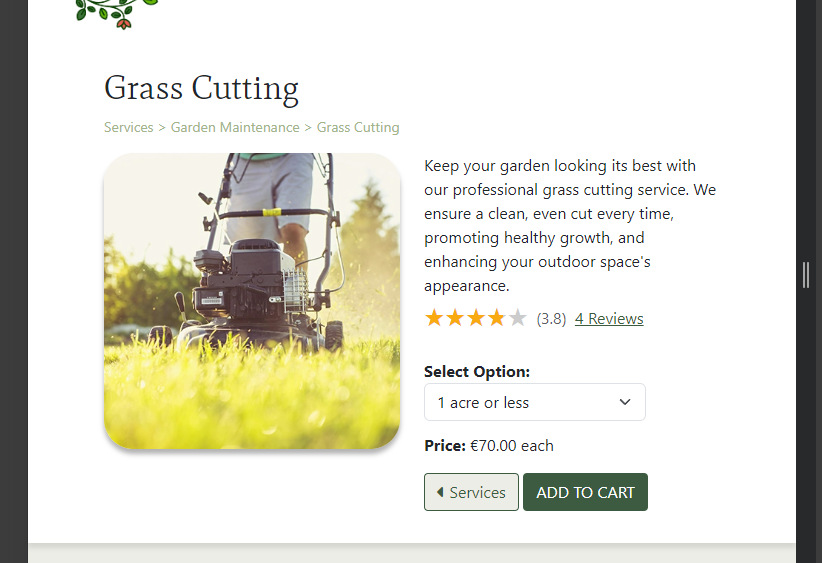
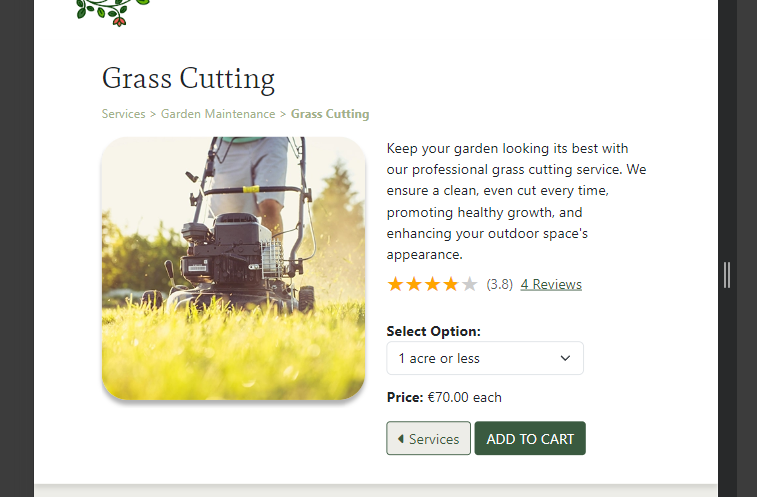
Docs: Add service pages to Features section of README.

diff --git a/README.md b/README.md
@@ -720,7 +720,7 @@ The homepage contains two sections: a general introduction and a services overvi
 
 ### The About Page
 Three distinct sections are displayed on the About page.
-- The first is a short statement about the business following by a paragraph on the founding of the business by the fictional Dermot Murphy. This history instills a sense of trust and customer care in the user as they think of The Garden Path as one that started as a local business run by someone passionate about their work that has become successful and increased in size. A picture of the same mature man amongst vegetation reading from tablet makes the user think of the business as one with good attention to detail.
+- The first is a short statement about the business following by a paragraph on the founding of the business by the fictional Dermot Murphy. This history instills a sense of trust and customer care in the user as they think of The Garden Path as one that started as a local business run by someone passionate about their work that has become successful and increased in size. A picture of "Dermot" amongst vegetation reading from a tablet makes the user think of the business as one with good attention to detail.
 
     ![Our Story section of About Us page](static/images/readme/about-story.png)
 
@@ -728,14 +728,32 @@ Three distinct sections are displayed on the About page.
 
     ![Our Mission section of About Us page](static/images/readme/about-mission.png)
 
-- The third section is brief paragraph that speaks directly to the prospective customer. It communicates that the business is dedicated to quality service and delivering exactly what the customer wants. A image of the mature man smiling and looking directly at the camera make a connection with the user as if they were speaking in person to a staff member.
+- The third section is brief paragraph that speaks directly to the prospective customer. It communicates that the business is dedicated to quality service and delivering exactly what the customer wants. A image of "Dermot" smiling and looking directly at the camera make a connection with the user as if they were speaking in person to a staff member.
 
     ![Our Mission section of About Us page](static/images/readme/about-committment.png)
 
 
 ### The Service Pages
-The Garden Path offers a number of services to their customers. The different services are displayed in a column on mobile and in a grid on tablet and desktop sizes. Each service has its own page with a full description and price breakdown. Each service has a unit cost depending on the type of work to be done for the customer. The dropdown options show the customer how much they will pay for areas of different sizes.
-ratings only takes the number of published reviews into account
+#### All Services
+The All Services page consists of two sections: the list of services and the pricing model.
+- Currently offering 6 types of services, the business displays each as a card containing a large vibrant image with a title underneath it. Clicking any of the images or titles will bring the user to the individual service page.
+
+    ![The All Services page services section](static/images/readme/services-section.png)
+
+- The pricing model section outlines the hourly rates for each category of service and, if applicable, the minimum number of hours for the service to be carried out.
+
+    ![The pricing model section](static/images/readme/pricing-section.png)
+
+#### Individual Service Pages
+For each individal service, the page is displayed with the hero image, to draw the user's eye to the colours in the image and in the star ratings. A brief description of the service is given, under which sits the star rating. The average rating is displayed as a number of stars out of 5 filled with an orange colour. The decimal value of the rating is listed next to the stars as well as the number of reviews. The number of reviews is a link to the reviews page for the service and is one of the few links on the website outside of the footer where the underline has not been removed for styling reasons. It must be present so that the user understand they can click the link to view the list of reviews.
+
+Underneath the rating are the option(s) for the user to select. These can range from 1-3 options e.g. the size of the area for grass cutting (1 option) or the type of tree service, the size of the tree, and the number of trees (3 options). The price per number of services is shown underneath the options along with two buttons that either allow the user to go back to the list of all services or to add the current service to the user's cart with the selected options.
+
+![An individual service page](static/images/readme/ind-services-tablet.png)
+
+Underneath each service's title are breadcrumb links of the form "All Services > Category > Service". Clicking on the Services breadcrumb takes the user back to the All Services page. Clicking the category breadcrumb (in the above image called "Garden Maintenance") renders the all services page with a category filter so that only services of the current category are shown and with the category name appended to the page's heading. The breadcrumb is shown in bold for the level of page that the user is currently viewing.
+
+![The service category page for Garden Maintenance](static/images/readme/category-page.png)
 
 ### The Reviews page
 show a paginated list of approved reviews,
